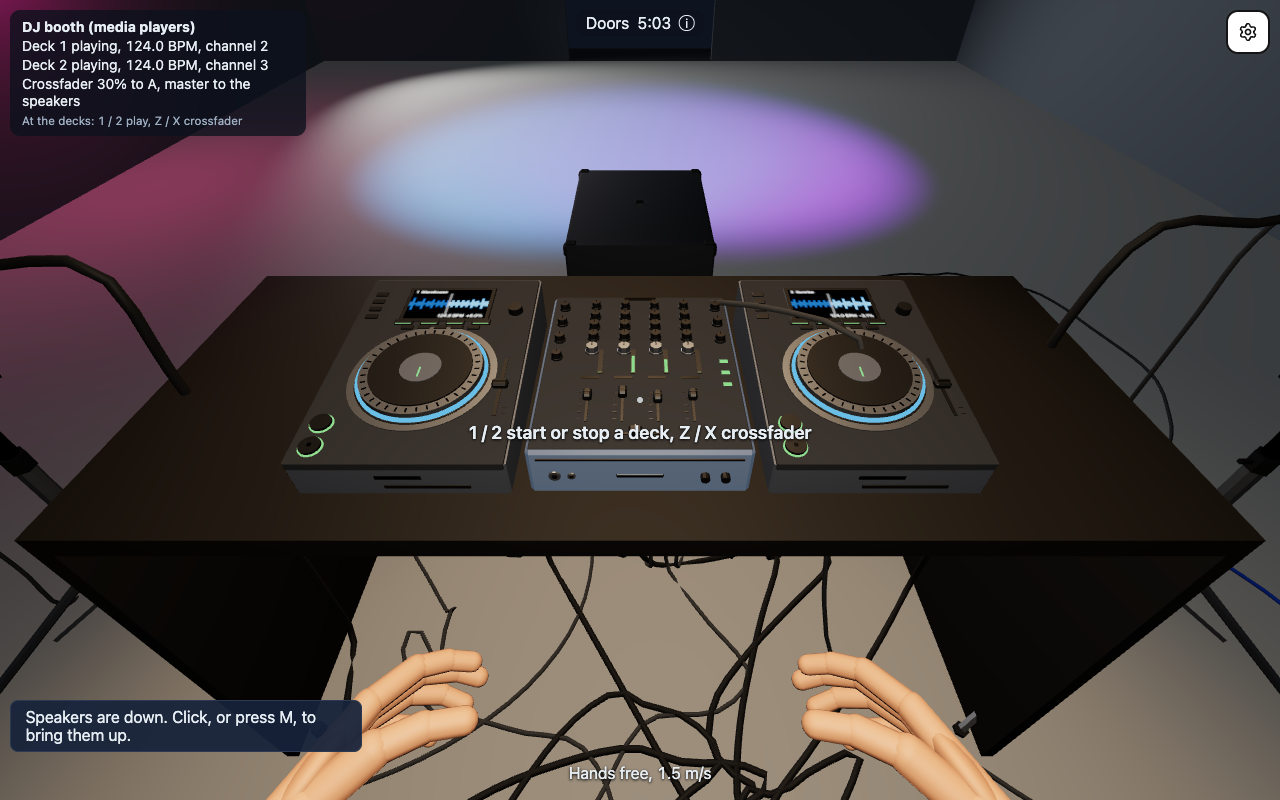
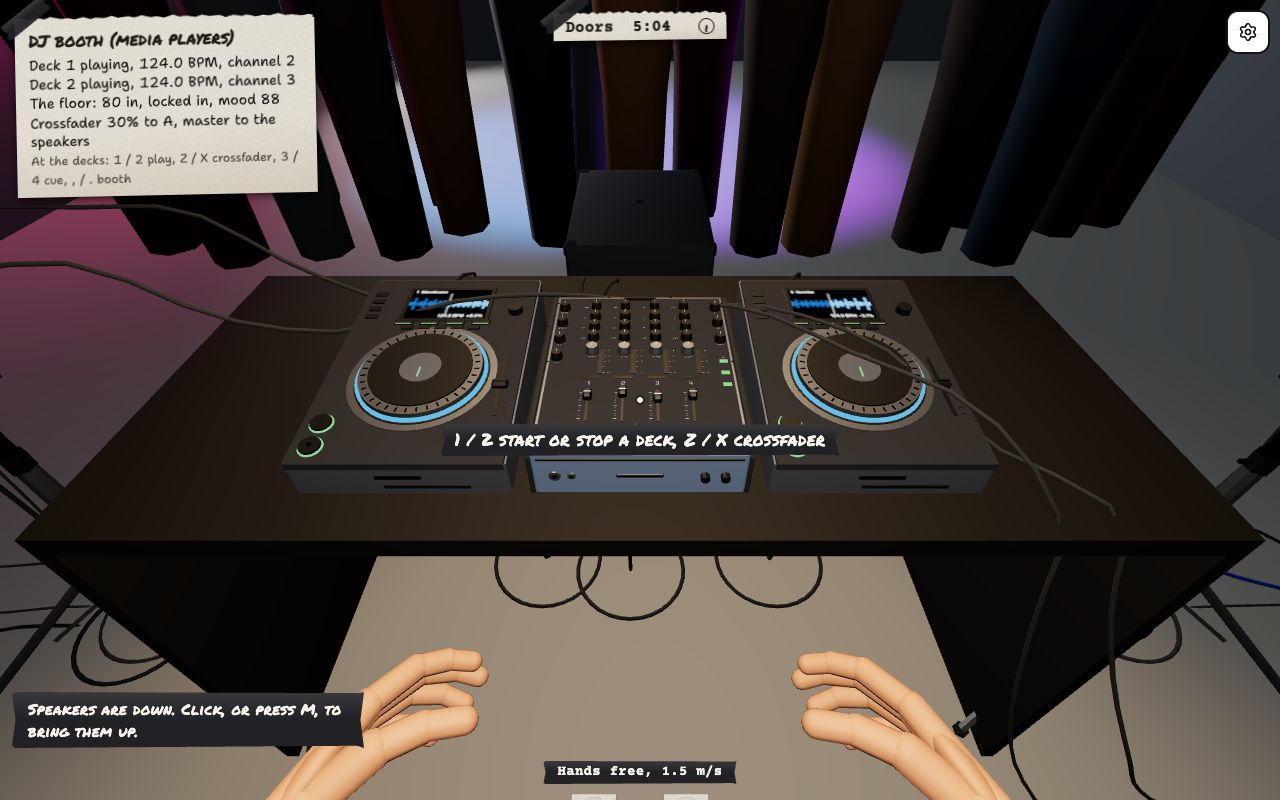
Real gear: round strobe dots, a printed mixer face, and a plated mixer body (Closes #5072)
- turntable: the platter rim's strobe dots are round domes, four even rows of 72, not boxes
- mixer-dj: white print on the face (channel numbers, TRIM/HI/MID/LOW/FILTER, master and effects names,
  a dB scale by each meter, fader scales, A/B on the crossfader, pointer lines on the knob caps), our wording only
- mixer-dj: a bevelled aluminium top plate over the body, moulded side cheeks, screws in the plate and cheeks
- a new `ink` slot (gearLook) and a small stroke font (`print`) for flat print in two triangles a stroke
- shots: gear-refs/shots/decks-2 and the refreshed booth shots

diff --git a/packages/models/src/gear.ts b/packages/models/src/gear.ts
@@ -69,11 +69,11 @@ export const GEAR_SIZES = {
 
 export const GEAR_IDS = Object.keys(GEAR_SIZES) as GearId[];
 
-const SLOTS = ["paint", "grille", "metal", "rubber", "panel", "lid", "tolex", "body", "chrome", "knob", "light", "shell", "badge"] as const;
+const SLOTS = ["paint", "grille", "metal", "rubber", "panel", "lid", "tolex", "body", "chrome", "knob", "light", "shell", "badge", "ink"] as const;
 export type GearSlot = (typeof SLOTS)[number];
 /** A material per slot: paint (cabinets), grille, metal (frames, poles), rubber (feet, wheels, ramp), panel (jack
  * plates), lid (the ramp's yellow lid), tolex (guitar amps), body (the guitar), chrome, knob, light (LEDs), shell (the
- * sculpted array's moulded composite), badge (the dance stack's maker plate). */
+ * sculpted array's moulded composite), badge (the dance stack's maker plate), ink (the white print on a control face). */
 export type GearLook = Record<GearSlot, THREE.Material>;
 
 export function gearLook(): GearLook {
@@ -82,7 +82,7 @@ export function gearLook(): GearLook {
     paint: std(0x1d1e20, 0.85), grille: std(0x2c2e31, 0.55, 0.6), metal: std(0x8a8d92, 0.4, 0.8), rubber: std(0x121212, 0.95),
     panel: std(0x3a3c40, 0.6, 0.3), lid: std(0xf2c230, 0.6), tolex: std(0x161514, 0.9), body: std(0x8f1f1f, 0.3, 0.1),
     chrome: std(0xd8dade, 0.15, 1), knob: std(0x0c0c0c, 0.5), light: new THREE.MeshBasicMaterial({ color: 0x45e06a }),
-    shell: std(0x1f6f78, 0.32, 0.1), badge: std(0x7a3fc6, 0.45),
+    shell: std(0x1f6f78, 0.32, 0.1), badge: std(0x7a3fc6, 0.45), ink: std(0xe4e2dc, 0.7),
   };
 }
 
@@ -239,13 +239,13 @@ type Face = "front" | "back" | "top" | "left" | "right";
 const NORMAL: Record<Face, THREE.Vector3Tuple> = { front: [0, 0, 1], back: [0, 0, -1], top: [0, 1, 0], left: [-1, 0, 0], right: [1, 0, 0] };
 
 /** Sockets in a row on a face, each a ring round an insert, with a mark. `at` is the face point of the first, `step` to the next. */
-function jacks(b: Build, names: string[], face: Face, at: THREE.Vector3Tuple, step: THREE.Vector3Tuple, r = 0.012) {
+function jacks(b: Build, names: string[], face: Face, at: THREE.Vector3Tuple, step: THREE.Vector3Tuple, r = 0.012, seg = 14) {
   const out = NORMAL[face], axis = face === "top" ? "y" : face === "front" || face === "back" ? "z" : "x";
   names.forEach((name, i) => {
     const p: THREE.Vector3Tuple = [at[0] + step[0] * i, at[1] + step[1] * i, at[2] + step[2] * i];
     const c: THREE.Vector3Tuple = [p[0] + out[0] * 0.004, p[1] + out[1] * 0.004, p[2] + out[2] * 0.004];
     // a socket: a metal ring round a black insert
-    b.pieces.push(disc("metal", r, 0.008, axis, c, 14), disc("knob", r * 0.74, 0.009, axis, c, 14));
+    b.pieces.push(disc("metal", r, 0.008, axis, c, seg), disc("knob", r * 0.74, 0.009, axis, c, seg));
     b.marks.push({ name: `jack:${name}`, at: [p[0] + out[0] * 0.008, p[1] + out[1] * 0.008, p[2] + out[2] * 0.008], out });
   });
 }
@@ -682,6 +682,80 @@ function lineArray(): Build {
 /** Pieces built flat (y up) moved onto a sloped face: `m` places them. */
 const onto = (m: THREE.Matrix4, pieces: Piece[]) => pieces.map((p) => (p.geo.applyMatrix4(m), p));
 
+/** A plain stroke letter for printing on a face: its width (the letter is 1 tall) and its strokes, [x1, y1, x2, y2] in
+ * 0..1 of that width and height. Blocky, as small print on gear reads at arm's length. */
+const STROKES: Record<string, [number, number[][]]> = (() => {
+  const C = [[0, 0, 0, 1], [0, 1, 1, 1], [0, 0, 1, 0]], O = [...C, [1, 0, 1, 1]], P = [[0, 0, 0, 1], [0, 1, 1, 1], [1, 1, 1, 0.5], [0, 0.5, 1, 0.5]];
+  const S = [[1, 1, 0, 1], [0, 1, 0, 0.5], [0, 0.5, 1, 0.5], [1, 0.5, 1, 0], [1, 0, 0, 0]], minus = [[0.1, 0.5, 0.9, 0.5]];
+  const g: Record<string, number[][]> = {
+    A: [[0, 0, 0.5, 1], [0.5, 1, 1, 0], [0.24, 0.45, 0.76, 0.45]], B: [[0, 0, 0, 1], [0, 1, 0.85, 1], [0, 0.5, 1, 0.5], [0, 0, 1, 0], [0.85, 1, 0.85, 0.5], [1, 0.5, 1, 0]],
+    C, D: [[0, 0, 0, 1], [0, 1, 0.6, 1], [0.6, 1, 1, 0.65], [1, 0.65, 1, 0.35], [1, 0.35, 0.6, 0], [0.6, 0, 0, 0]], E: [...C, [0, 0.5, 0.75, 0.5]],
+    F: [[0, 0, 0, 1], [0, 1, 1, 1], [0, 0.5, 0.75, 0.5]], G: [...C, [1, 0, 1, 0.45], [1, 0.45, 0.55, 0.45]], H: [[0, 0, 0, 1], [1, 0, 1, 1], [0, 0.5, 1, 0.5]],
+    I: [[0, 0, 0, 1]], K: [[0, 0, 0, 1], [0, 0.45, 1, 1], [0.35, 0.65, 1, 0]], L: [[0, 0, 0, 1], [0, 0, 1, 0]], M: [[0, 0, 0, 1], [1, 0, 1, 1], [0, 1, 0.5, 0.45], [0.5, 0.45, 1, 1]],
+    N: [[0, 0, 0, 1], [1, 0, 1, 1], [0, 1, 1, 0]], O, P, R: [...P, [0.4, 0.5, 1, 0]], S, T: [[0, 1, 1, 1], [0.5, 1, 0.5, 0]], U: [[0, 1, 0, 0], [0, 0, 1, 0], [1, 0, 1, 1]],
+    V: [[0, 1, 0.5, 0], [0.5, 0, 1, 1]], W: [[0, 1, 0.2, 0], [0.2, 0, 0.5, 0.6], [0.5, 0.6, 0.8, 0], [0.8, 0, 1, 1]], X: [[0, 0, 1, 1], [0, 1, 1, 0]],
+    "0": O, "1": [[0.6, 0, 0.6, 1], [0.6, 1, 0, 0.7]], "2": [[0, 1, 1, 1], [1, 1, 1, 0.5], [1, 0.5, 0, 0.5], [0, 0.5, 0, 0], [0, 0, 1, 0]],
+    "3": [[0, 1, 1, 1], [1, 1, 1, 0], [0, 0, 1, 0], [0.3, 0.5, 1, 0.5]], "4": [[0, 1, 0, 0.45], [0, 0.45, 1, 0.45], [0.8, 1, 0.8, 0]], "5": S,
+    "6": [[1, 1, 0, 1], [0, 1, 0, 0], [0, 0, 1, 0], [1, 0, 1, 0.5], [1, 0.5, 0, 0.5]], "-": minus, "+": [...minus, [0.5, 0.2, 0.5, 0.8]],
+  };
+  return Object.fromEntries(Object.entries(g).map(([k, s]): [string, [number, number[][]]] => [k, [k === "I" ? 0 : k === "1" ? 0.3 : k === "-" || k === "+" ? 0.5 : 0.62, s]]));
+})();
+
+/** Text printed flat on a face that looks up (+y): `size` tall, centred on (x, z) at height y, reading left to right
+ * along +x with its top away from you (-z), as a control face reads from where its user stands. Each stroke is one
+ * flat strip in the `ink` slot, two triangles. */
+function print(text: string, x: number, y: number, z: number, size: number): Piece[] {
+  const t = size * 0.15, gap = size * 0.34, letters = [...text].map((c): [number, number[][]] => {
+    if (c === " ") return [0.62, []];
+    const g = STROKES[c];
+    if (!g) throw new Error(`print: no stroke letter for "${c}" in "${text}"`);
+    return g;
+  });
+  const wide = letters.reduce((s, [w]) => s + w * size, 0) + gap * Math.max(0, letters.length - 1), pos: number[] = [];
+  let left = x - wide / 2;
+  for (const [w, strokes] of letters) {
+    for (const [x1, y1, x2, y2] of strokes) {
+      const a = new THREE.Vector2(left + x1! * w * size, z - (y1! - 0.5) * size), b = new THREE.Vector2(left + x2! * w * size, z - (y2! - 0.5) * size);
+      const along = b.clone().sub(a).normalize().multiplyScalar(t / 2), side = new THREE.Vector2(-along.y, along.x);
+      a.sub(along); b.add(along);
+      const [p, q, r, s] = [a.clone().add(side), b.clone().add(side), b.clone().sub(side), a.clone().sub(side)];
+      // wound so the strip faces up
+      const up = (q.x - p.x) * (r.y - p.y) - (q.y - p.y) * (r.x - p.x) < 0;
+      for (const v of up ? [p, q, r, p, r, s] : [p, r, q, p, s, r]) pos.push(v.x, y, v.y);
+    }
+    left += w * size + gap;
+  }
+  if (!pos.length) return [];
+  const geo = new THREE.BufferGeometry();
+  geo.setAttribute("position", new THREE.Float32BufferAttribute(pos, 3));
+  geo.setAttribute("normal", new THREE.Float32BufferAttribute(pos.map((_, i) => (i % 3 === 1 ? 1 : 0)), 3));
+  return [{ geo, slot: "ink" }];
+}
+
+/** Round domed dots round a vertical drum of radius `r` (a platter's strobe rim): `count` evenly round each row at
+ * the heights `rows`, all rows lined up, each a low dome `size` across, a hexagon fan with its normals bent round so it
+ * catches light as a round bump does. */
+function dots(slot: GearSlot, r: number, rows: number[], count: number, size: number): Piece {
+  const pos: number[] = [], nor: number[] = [], k = size / 2, rise = size * 0.3;
+  for (const y of rows) for (let i = 0; i < count; i++) {
+    const a = (i / count) * Math.PI * 2, out = new THREE.Vector3(Math.sin(a), 0, Math.cos(a)), across = new THREE.Vector3(Math.cos(a), 0, -Math.sin(a));
+    const centre = out.clone().multiplyScalar(r + rise).setY(y);
+    const rim = Array.from({ length: 6 }, (_, j) => {
+      const t = (j / 6) * Math.PI * 2, u = Math.cos(t), v = Math.sin(t);
+      return { p: out.clone().multiplyScalar(r).addScaledVector(across, u * k).setY(y + v * k), n: out.clone().multiplyScalar(0.55).addScaledVector(across, u).add(new THREE.Vector3(0, v, 0)).normalize() };
+    });
+    for (let j = 0; j < 6; j++) {
+      const p = rim[j]!, q = rim[(j + 1) % 6]!;
+      // centre, then the rim the way round that faces out
+      for (const [v, n] of [[centre, out], [p.p, p.n], [q.p, q.n]] as const) pos.push(...v.toArray()), nor.push(...n.toArray());
+    }
+  }
+  const geo = new THREE.BufferGeometry();
+  geo.setAttribute("position", new THREE.Float32BufferAttribute(pos, 3));
+  geo.setAttribute("normal", new THREE.Float32BufferAttribute(nor, 3));
+  return { geo, slot };
+}
+
 /** A direct-drive turntable: a heavy brushed plinth on damped feet, the platter (strobe dots round its rim, a slip mat
  * and a record on it) to the left, an S-shaped tonearm on its gimbal at the right rear with the counterweight behind
  * and the headshell in front, the pitch fader at the right front, start/stop and 33/45 at the left front. */
@@ -708,13 +782,10 @@ function turntable(): Build {
   b.pieces.push(box("knob", [0.024, 0.012, 0.016], [px, top + 0.006, d / 2 - 0.09], { bevel: 0.003 }));
   b.pieces.push(disc("chrome", 0.006, 0.02, "y", [px - 0.02, top + 0.01, d / 2 - 0.02], 8), disc("light", 0.004, 0.004, "y", [px - 0.02, top + 0.021, d / 2 - 0.02], 6));
 
-  // the platter part: its rim with four rows of strobe dots, the slip mat, a record and its label, the spindle
+  // the platter part: its rim with four even rows of round strobe dots, the slip mat, a record and its label, the spindle
   const pl: Piece[] = [];
   pl.push(disc("metal", platR, 0.02, "y", [0, 0.012, 0], 48));
-  for (let row = 0; row < 3; row++) for (let i = 0; i < 36; i++) {
-    const a = (i / 36) * Math.PI * 2 + (row % 2) * 0.044;
-    pl.push(box("chrome", [0.0032, 0.0028, 0.002], [Math.sin(a) * (platR + 0.0006), 0.0055 + row * 0.0045, Math.cos(a) * (platR + 0.0006)], { rot: [0, a, 0] }));
-  }
+  pl.push(dots("chrome", platR, [0.0052, 0.009, 0.0128, 0.0166], 72, 0.0026));
   pl.push(disc("rubber", 0.152, 0.003, "y", [0, 0.0235, 0], 40));
   pl.push(disc("knob", 0.1524, 0.0018, "y", [0, 0.026, 0], 48));
   pl.push(disc("lid", 0.05, 0.0004, "y", [0, 0.0271, 0], 28), box("paint", [0.03, 0.0005, 0.008], [0.018, 0.0274, 0]));
@@ -805,39 +876,64 @@ function deckMedia(): Build {
   return b;
 }
 
-/** A four-channel DJ mixer: a steel box with a flat face, per channel a trim, three EQ knobs and a colour filter, a
- * lit level meter and a long channel fader, the crossfader across the front, the master and headphone knobs down the
- * left and the effects down the right; the inputs (phono and line per channel), the outs and the ground post behind. */
+/** A four-channel DJ mixer: a steel body between two moulded side cheeks, a bevelled aluminium top plate screwed down
+ * over it with the control field printed in white (channel numbers, the knobs' names, a scale by each meter and
+ * fader); per channel a trim, three EQ knobs and a colour filter, a lit level meter and a long channel fader, the
+ * crossfader across the front, the master and headphone knobs down the left and the effects down the right; the inputs
+ * (phono and line per channel), the outs and the ground post behind. */
 function mixerDj(): Build {
-  const [w, h, d] = GEAR_SIZES["mixer-dj"], b: Build = { pieces: [], marks: [], parts: [] }, foot = 0.008, top = h - 0.008;
-  b.pieces.push(box("panel", [w, top - foot, d], [0, foot + (top - foot) / 2, 0], { bevel: 0.006 }));
-  b.pieces.push(box("paint", [w - 0.01, 0.0025, d - 0.01], [0, top + 0.0005, 0], { bevel: 0.001 }));
+  const [w, h, d] = GEAR_SIZES["mixer-dj"], b: Build = { pieces: [], marks: [], parts: [] }, foot = 0.008, top = h - 0.008, cheek = 0.007;
+  // the body, the top plate over it (its bevel shows bright round the field), the dark printed field on the plate
+  b.pieces.push(box("panel", [w - 2 * cheek, top - foot - 0.004, d], [0, foot + (top - foot - 0.004) / 2, 0], { bevel: 0.003 }));
+  b.pieces.push(box("metal", [w - 2 * cheek, 0.005, d - 0.004], [0, top - 0.0015, 0], { bevel: 0.0022 }));
+  b.pieces.push(box("paint", [w - 2 * cheek - 0.012, 0.0012, d - 0.018], [0, top + 0.0012, 0], { bevel: 0.0004 }));
+  const face = top + 0.0018, CH = [-0.0825, -0.0275, 0.0275, 0.0825], fz = 0.11, travel = 0.06, mz = 0.03, mLen = 0.06, ink = face + 0.0003;
+  // the side cheeks: moulded ends a little proud of the plate, the front corner rounded off, two screws in each
+  for (const s of [-1, 1]) {
+    b.pieces.push(prism("paint", [[d / 2, foot + 0.001], [d / 2, top - 0.014], [d / 2 - 0.016, top + 0.0035], [-d / 2 + 0.008, top + 0.0035], [-d / 2, top - 0.006], [-d / 2, foot + 0.001]], cheek, s * (w / 2 - cheek / 2), 0.0015));
+    for (const z of [-d / 4, d / 4]) b.pieces.push(...screw([s * (w / 2 + 0.0008), (foot + top) / 2, z], "x", 0.0028));
+  }
+  // the plate's screws, in the bright border round the field
+  for (const x of [-1, 1]) for (const z of [-0.18, 0, 0.18]) b.pieces.push(...screw([x * (w / 2 - cheek - 0.003), top + 0.0012, z], "y", 0.0017));
+  for (const x of [-0.06, 0.06]) b.pieces.push(...screw([x, top + 0.0012, -d / 2 + 0.0045], "y", 0.0017));
   for (const x of [-1, 1]) for (const z of [-1, 1]) b.pieces.push(disc("rubber", 0.012, foot, "y", [x * (w / 2 - 0.03), foot / 2, z * (d / 2 - 0.035)], 6));
-  const face = top + 0.00175, CH = [-0.0825, -0.0275, 0.0275, 0.0825], fz = 0.11, travel = 0.06, mz = 0.03, mLen = 0.06;
-  const knob = (x: number, z: number, r: number, slot: GearSlot = "knob") => b.pieces.push(
-    loft(slot, [R(0, r * 1.15), R(0.003, r * 1.15), R(0.004, r), R(0.014, r * 0.92)], { seg: 8, m: new THREE.Matrix4().makeTranslation(x, face, z) }),
-    box("chrome", [0.0012, 0.0008, r * 0.8], [x, face + 0.0142, z - r * 0.45]));
+  const say = (text: string, x: number, z: number, size = 0.0026) => b.pieces.push(...print(text, x, ink, z, size));
+  /** A knob, its white pointer line printed on its cap, and its name printed where the DJ sees it past the knob: to
+   * its left in a channel's column, in front of it elsewhere. */
+  const knob = (x: number, z: number, r: number, name: string, slot: GearSlot = "knob", side: "left" | "front" = "front") => {
+    b.pieces.push(loft(slot, [R(0, r * 1.15), R(0.003, r * 1.15), R(0.014, r * 0.92)], { seg: 8, m: new THREE.Matrix4().makeTranslation(x, face, z) }));
+    b.pieces.push(...print("I", x, face + 0.0141, z - r * 0.45, r * 0.8));
+    if (side === "left") say(name, x - 0.0195, z, 0.0024); else say(name, x, z + r * 1.15 + 0.003);
+  };
   CH.forEach((x, i) => {
-    knob(x, -0.165, 0.0085);
-    for (const z of [-0.13, -0.098, -0.066]) knob(x, z, 0.0095);
-    knob(x, -0.028, 0.011, "metal");
-    // the meter: a dark strip, the lit bar a part over it, filling from the front end back
+    knob(x, -0.165, 0.0085, "TRIM", "knob", "left");
+    for (const [z, name] of [[-0.13, "HI"], [-0.098, "MID"], [-0.066, "LOW"]] as const) knob(x, z, 0.0095, name, "knob", "left");
+    knob(x, -0.028, 0.011, "FILTER", "metal");
+    // the meter: a dark strip, the lit bar a part over it, filling from the front end back; its scale beside it
     b.pieces.push(box("knob", [0.008, 0.0008, mLen + 0.004], [x + 0.016, face + 0.0004, mz - mLen / 2]));
+    for (const [k, dB] of ["-24", "", "-6", "0", "+6"].entries()) {
+      const zz = mz - (k / 4) * mLen;
+      b.pieces.push(...print("-", x + 0.0225, ink, zz, 0.005));
+      if (dB) say(dB, x + 0.0295, zz, 0.0021);
+    }
+    // the cue key, the channel's number big under it
     b.pieces.push(box("chrome", [0.03, 0.0006, 0.006], [x, face + 0.0003, mz + 0.012]));
-    b.parts!.push({ name: `meter-${i + 1}`, at: [x + 0.016, face + 0.0012, mz], rot: -Math.PI / 2, pieces: [box("light", [0.0055, mLen, 0.0008], [0, mLen / 2, 0])] });
+    say(String(i + 1), x, mz + 0.027, 0.0075);
     // the channel fader's slot and scale, and its cap as a part at mid travel
     b.pieces.push(box("knob", [0.004, 0.0012, travel + 0.012], [x, face + 0.0006, fz]));
-    for (let k = 0; k < 5; k++) b.pieces.push(box("chrome", [0.006, 0.0006, 0.001], [x - 0.011, face + 0.0003, fz - travel / 2 + k * (travel / 4)]));
-    b.parts!.push({ name: `fader-${i + 1}`, at: [x, face, fz], pieces: [box("knob", [0.014, 0.014, 0.02], [0, 0.007, 0], { bevel: 0.003 }), box("chrome", [0.012, 0.0008, 0.002], [0, 0.0142, 0])] });
+    for (let k = 0; k < 11; k++) b.pieces.push(...print("-", x - 0.011, ink, fz - travel / 2 + k * (travel / 10), k % 5 ? 0.005 : 0.009));
+    b.parts!.push({ name: `fader-${i + 1}`, at: [x, face, fz], pieces: [box("knob", [0.014, 0.014, 0.02], [0, 0.007, 0], { bevel: 0.003 }), ...print("-", 0, 0.0141, 0, 0.022)] });
   });
-  // the crossfader across the front
+  // the crossfader across the front, its ends named
   const cz = d / 2 - 0.035, ct = 0.045;
   b.pieces.push(box("knob", [ct + 0.014, 0.0012, 0.004], [0, face + 0.0006, cz]));
-  b.parts!.push({ name: "cross", at: [0, face, cz], pieces: [box("knob", [0.02, 0.014, 0.014], [0, 0.007, 0], { bevel: 0.003 }), box("chrome", [0.002, 0.0008, 0.012], [0, 0.0142, 0])] });
+  for (const s of [-1, 1]) say(s < 0 ? "A" : "B", s * (ct / 2 + 0.014), cz, 0.004);
+  b.parts!.push({ name: "cross", at: [0, face, cz], pieces: [box("knob", [0.02, 0.014, 0.014], [0, 0.007, 0], { bevel: 0.003 }), ...print("I", 0, 0.0141, 0, 0.012)] });
   // master and headphones down the left, effects down the right, with their lit keys
-  for (let k = 0; k < 4; k++) knob(-w / 2 + 0.025, -0.16 + k * 0.05, 0.009);
-  for (let k = 0; k < 3; k++) knob(w / 2 - 0.025, -0.16 + k * 0.05, 0.009);
+  ["MASTER", "BOOTH", "MIX", "LEVEL"].forEach((name, k) => knob(-w / 2 + 0.025, -0.16 + k * 0.05, 0.009, name));
+  ["FX", "TIME", "DEPTH"].forEach((name, k) => knob(w / 2 - 0.025, -0.16 + k * 0.05, 0.009, name));
   for (let k = 0; k < 3; k++) b.pieces.push(box("light", [0.014, 0.0012, 0.008], [w / 2 - 0.025, face + 0.0006, 0.0 + k * 0.03]));
+  say("ON", w / 2 - 0.025, -0.012, 0.0024);
   b.pieces.push(box("chrome", [0.06, 0.001, 0.008], [0, face + 0.0005, -d / 2 + 0.012]));
   // the front: the headphone sockets, the crossfader curve and reverse knobs, a strip of our own badge
   const fr = d / 2 + 0.001;
@@ -846,12 +942,12 @@ function mixerDj(): Build {
   for (const x of [w / 2 - 0.07, w / 2 - 0.04]) b.pieces.push(disc("knob", 0.007, 0.01, "z", [x, 0.05, fr + 0.004], 10), box("chrome", [0.001, 0.005, 0.001], [x, 0.054, fr + 0.0095]));
   b.pieces.push(box("chrome", [0.07, 0.007, 0.002], [0, 0.05, fr], { bevel: 0.001 }), box("knob", [w - 0.03, 0.003, 0.002], [0, 0.085, fr]));
   const back = -d / 2;
-  jacks(b, numbered("phono-in", 4), "back", [-0.15, 0.078, back - 0.002], [0.026, 0, 0], 0.0065);
-  jacks(b, numbered("rca-in", 4), "back", [-0.15, 0.045, back - 0.002], [0.026, 0, 0], 0.0065);
+  jacks(b, numbered("phono-in", 4), "back", [-0.15, 0.078, back - 0.002], [0.026, 0, 0], 0.0065, 10);
+  jacks(b, numbered("rca-in", 4), "back", [-0.15, 0.045, back - 0.002], [0.026, 0, 0], 0.0065, 10);
   jacks(b, numbered("xlr-out", 4), "back", [0.03, 0.06, back - 0.002], [0.03, 0, 0], 0.011);
   // the ground post: one knurled nut, both lugs go under it
   b.pieces.push(disc("chrome", 0.006, 0.014, "z", [-0.03, 0.078, back - 0.006], 10));
-  jacks(b, ["ground-in-1", "ground-in-2"], "back", [-0.03, 0.078, back - 0.012], [0, 0, 0], 0.004);
+  jacks(b, ["ground-in-1", "ground-in-2"], "back", [-0.03, 0.078, back - 0.012], [0, 0, 0], 0.004, 8);
   jacks(b, ["power-in"], "back", [-0.03, 0.035, back - 0.002], [0, 0, 0], 0.012);
   b.data = { faderTravel: travel, crossTravel: ct };
   mark(b, "grab", [0, h, 0]);

diff --git a/packages/models/test/gear.test.ts b/packages/models/test/gear.test.ts
@@ -65,3 +65,16 @@ test("a speaker's perforated grille is one flat sheet; its edge bends back as a 
     expect(first.z, id).toBeGreaterThan(0.5);
   }
 });
+
+test("the DJ mixer's print lies on its top face and knob caps, looking up, inside the plate", () => {
+  const g = gear("mixer-dj"), ink = g.getObjectByName("mixer-dj-ink") as THREE.Mesh, [w, h, d] = GEAR_SIZES["mixer-dj"];
+  const p = ink.geometry.getAttribute("position"), n = ink.geometry.getAttribute("normal");
+  expect(p.count / 3).toBeGreaterThan(100);
+  for (let i = 0; i < p.count; i++) {
+    expect(n.getY(i)).toBeCloseTo(1, 5);
+    expect(Math.abs(p.getX(i))).toBeLessThan(w / 2 - 0.007);
+    expect(Math.abs(p.getZ(i))).toBeLessThan(d / 2 - 0.009);
+    expect(p.getY(i)).toBeGreaterThan(h - 0.008);
+    expect(p.getY(i)).toBeLessThan(h + 0.009); // the field, or the knobs' caps (their pointer lines)
+  }
+});
